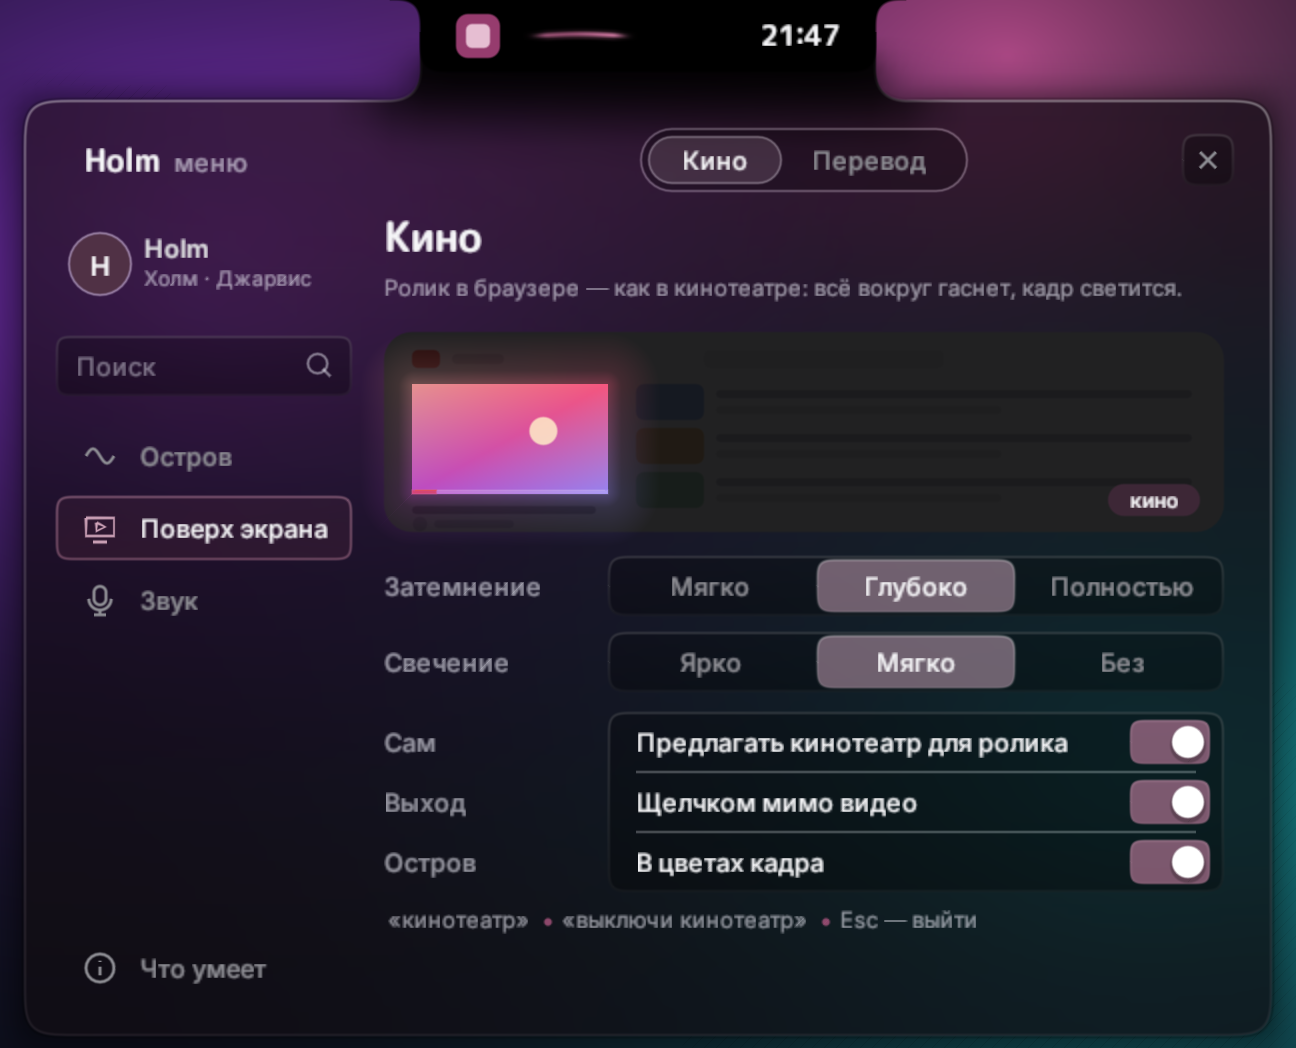
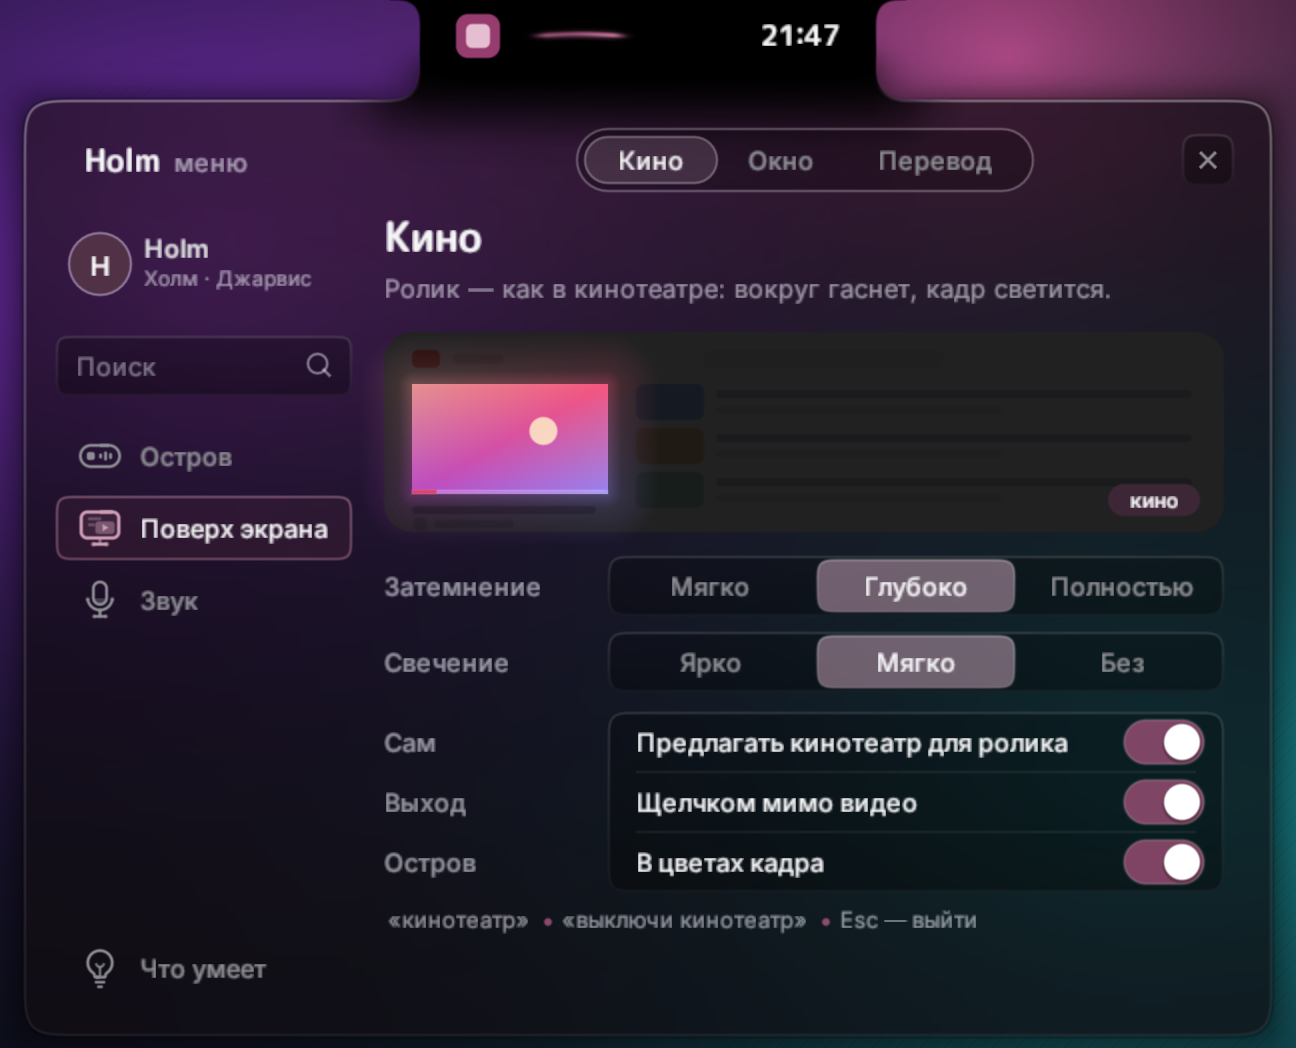
Holm 0.5 «Голос»: слух, понимание, живое меню

diff --git a/README.md b/README.md
@@ -44,7 +44,21 @@
 > «запомни, что машина в сервисе» · «вставь объявление» · «скопируй ссылку»
 > «подбрось монетку» · «выбери: пицца или суши»
 
-**Свой мозг, без интернета.** Речь распознаётся на компьютере: быстрый распознаватель пишет черновик на лету, точный — с пунктуацией — дописывает фразу. Тяжёлое распознавание включается, только когда в микрофоне голос.
+**Свой мозг, без интернета.** Речь распознаётся на компьютере: слова появляются на острове сразу точными, с запятыми, а рядом — чип: что Holm сейчас сделает. Тяжёлое распознавание включается, только когда в микрофоне голос.
+
+**Слух на выбор.** «Точный» — быстрый и точный, «Холм» (бета) — лучше знает слова Holm, «Лёгкий» — бережёт силы. Меню → «Звук» → «Голос»: живая сцена показывает, кто слушает, что услышал и за сколько.
+
+**Мой голос.** Прочитайте вслух восемь фраз — минута, — и Holm запомнит, как именно у вас звучат его имя и просьбы.
+
+**Понимание (бета).** «Засеки семь минут на пельмени», «этот трек так себе, давай другой» — когда правил мало, просьбу читает языковая модель прямо на вашем компьютере. Ставится одной кнопкой (2,6 ГБ), берёт около 3 ГБ памяти видеокарты и уходит из неё, как только началась игра. Ничего опасного сделать не может.
+
+<table>
+<tr>
+<td><img src="docs/screens/menu-voice.png" alt="Меню: голос — живая сцена"></td>
+<td><img src="docs/screens/menu-lesson.png" alt="Меню: урок «Мой голос»"></td>
+<td><img src="docs/screens/menu-mind.png" alt="Меню: понимание"></td>
+</tr>
+</table>
 
 **Имя на выбор.** Откликается на «Холм» — и на прежнее «Джарвис», если вы к нему привыкли: меню → «Holm» → «Отклик».
 
@@ -137,6 +151,8 @@
 |---|:---:|:---:|
 | Остров: часы, живая волна, лицо, жидкое стекло, четыре иконки | ✓ | ✓ |
 | Голос без интернета: просьбы своими словами, «нет» и «верни как было» | ✓ | ✓ |
+| Слух на выбор и урок «Мой голос» | ✓ | ✓ |
+| **Понимание** — языковая модель на вашем компьютере | ✓ пока бета | ✓ |
 | Таймеры, напоминания, погода, счёт, даты, Википедия, память и заготовки | ✓ | ✓ |
 | Перевод страниц прямо поверх них — Chrome, Edge, Firefox, Zen | ✓ | ✓ |
 | Перевод выделенного, «переведи и вставь», текст с экрана, фраза голосом — 17 языков | ✓ | ✓ |
@@ -173,7 +189,8 @@
 
 - Голос распознаётся **на вашем компьютере** — звук никуда не уходит.
 - В сеть уходит только то, о чём вы сами попросили: текст для перевода ([MyMemory](https://mymemory.translated.net)), город для погоды ([Open-Meteo](https://open-meteo.com)), вопрос «что такое…» (Википедия), исполнитель и название трека для текста песни ([LRCLIB](https://lrclib.net)). Щит раз в неделю обновляет списки рекламы ([StevenBlack/hosts](https://github.com/StevenBlack/hosts)).
-- Сам Holm ходит в сеть за двумя вещами: один раз скачивает голос (с GitHub, по вашему согласию) и раз в сутки спрашивает у GitHub номер последней версии — эту проверку можно выключить в меню.
+- Сам Holm ходит в сеть за двумя вещами: один раз скачивает голос (с GitHub, по вашему согласию) и раз в сутки спрашивает у GitHub номер последней версии — эту проверку можно выключить в меню. Плеер (с GitHub) и понимание (с GitHub и Hugging Face) скачиваются, только если вы сами нажали «Установить».
+- «Мой голос» и записи просьб (если включите) лежат только на вашем компьютере и стираются одной кнопкой.
 - Ни аккаунтов, ни подписок, ни платных нейросетей, ни слежки.
 
 ## Лицензия

diff --git a/CHANGELOG.md b/CHANGELOG.md
@@ -9,6 +9,54 @@
 
 ---
 
+## 0.5 «Голос» · 25 ноября 2026
+
+> **Holm слышит и понимает по-новому.** Слова на острове сразу точные, ответ приходит быстрее, а просить можно своими словами. И видно всё: кто слушает, что услышал и что сейчас сделает.
+
+### 👂 Слух
+- **Точный вживую** — слова на острове сразу правильные, их больше не переписывает.
+- **Слух на выбор** — «Точный» стоит по умолчанию; «Лёгкий» (как раньше) и «Холм» (бета) — рядом, в меню → «Звук» → «Голос».
+- **Отвечает быстрее** — законченную просьбу Holm узнаёт по смыслу и не ждёт лишней тишины.
+- **Имя, записанное с ошибкой,** — больше не портит просьбу.
+
+### 💧 Движение
+- **Меню вытекает из острова каплей** — плавно и быстро, и так же втягивается обратно.
+- **Страницы едут, а не мигают** — вкладки вбок, комнаты вверх и вниз, строки встают одна за другой.
+- **Живые значки** — «Остров» и «Что умеет» перерисованы: наведите — оживут.
+- **Хочется спокойнее** — «Другое» → «Анимации» → «Спокойные».
+
+### 🎙 Меню
+- **Один стиль на всех страницах** — одинаковые кнопки, выключатели и подписи; всё помещается.
+- **«Что нового» — лента версий** — было и стало вживую, в цветах трека.
+- **Страница «Голос»** — видно, кто слушает, что услышал и как быстро.
+- **Выбор, который видно** — стекло перетекает к выбранному: «включаю…», вспышка, «слушает».
+
+### 🗣 Мой голос
+- **Урок на минуту** — восемь фраз вслух, и Holm запомнит, как говорите вы.
+- **Только на вашем компьютере** — запоминается, как у вас звучат имя и просьбы; любое можно убрать.
+
+### ✦ Понимание
+- **Просите своими словами (бета)** — «засеки семь минут на пельмени».
+- **Языковая модель у вас дома** — когда обычных правил мало, просьбу читает она: на вашем компьютере, без интернета и бесплатно.
+- **По желанию** — ставится одной кнопкой (2,6 ГБ, открытая модель Qwen3.5), нужна видеокарта: модель берёт около 3 ГБ её памяти. В играх уходит из неё сама.
+- **Безопасно** — выключить компьютер, закрыть окно или что-то напечатать она не может.
+
+### 💬 Диктовка
+- **Строка, которая не мигает** — и рядом чип: что Holm сейчас сделает.
+
+### ⬇ Загрузки
+- **Одна карточка на всё** — кольцо, скорость, сколько осталось.
+- **«Отмена» и «Продолжить»** — с того же места: голос, обновление, плеер и понимание.
+
+### ⚡ Легче
+- **Меньше работы в фоне** — громкость, музыка и свет кино тратят меньше сил.
+- **В тяжёлой игре** — слух переходит на один поток и отвечает быстрее, чем раньше.
+
+### 🔧 Поправлено
+- **«Где вы слушаете музыку?»** — вопрос видно сразу, и на него хватает одного слова.
+
+---
+
 ## 0.4 «Плеер» · 24 ноября 2026
 
 > **У Holm — свой плеер.** Ролик в окне поверх всех играет сам Holm: без кнопок браузера, с плавным размером и списком «Дальше». А «Холм, музыку» включает именно музыку — даже если плеер ещё не запущен.
